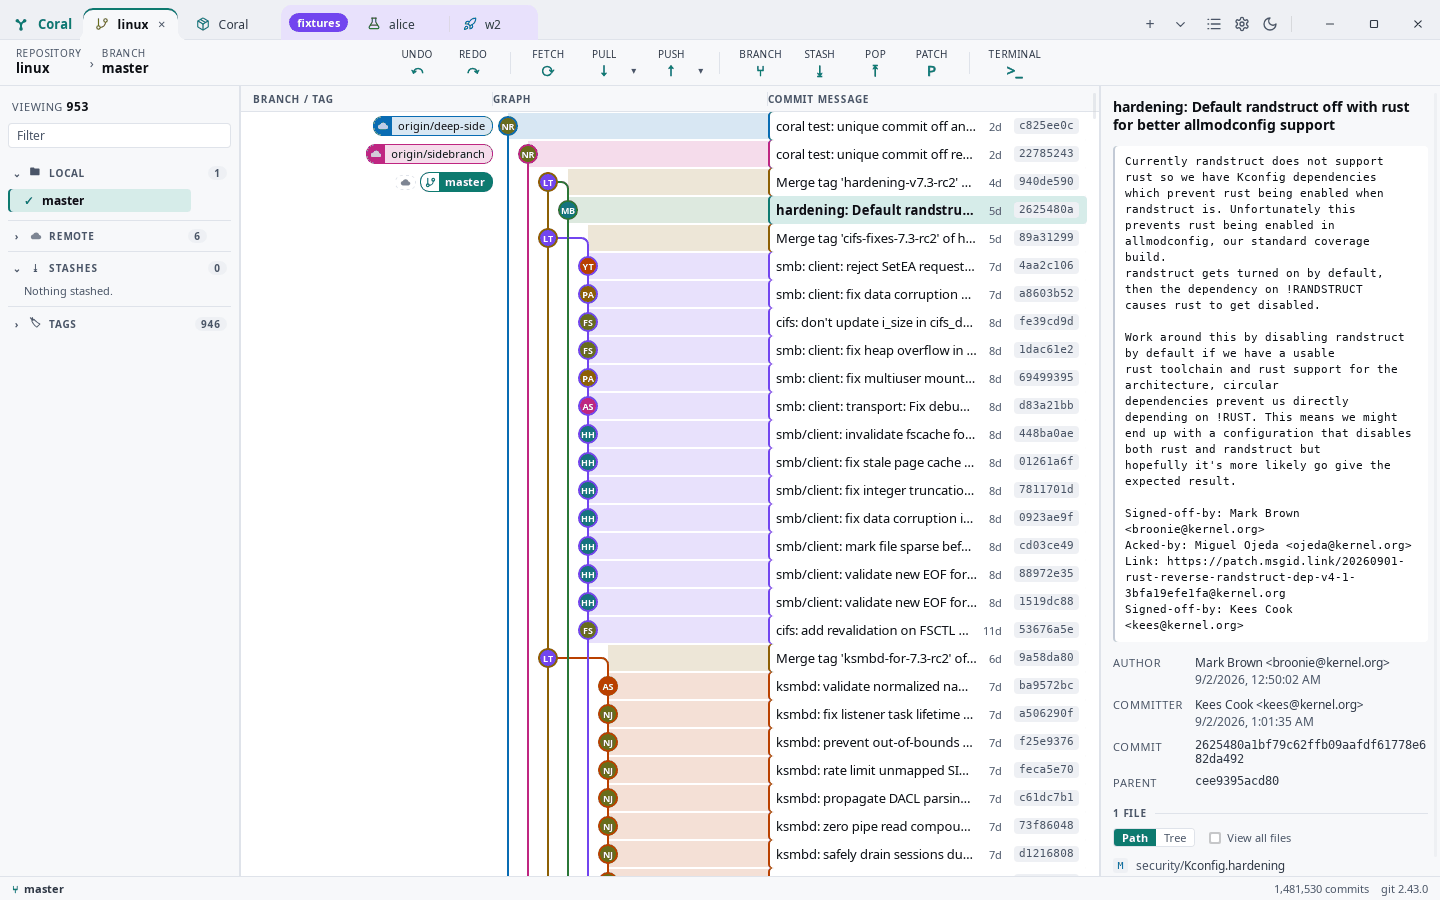
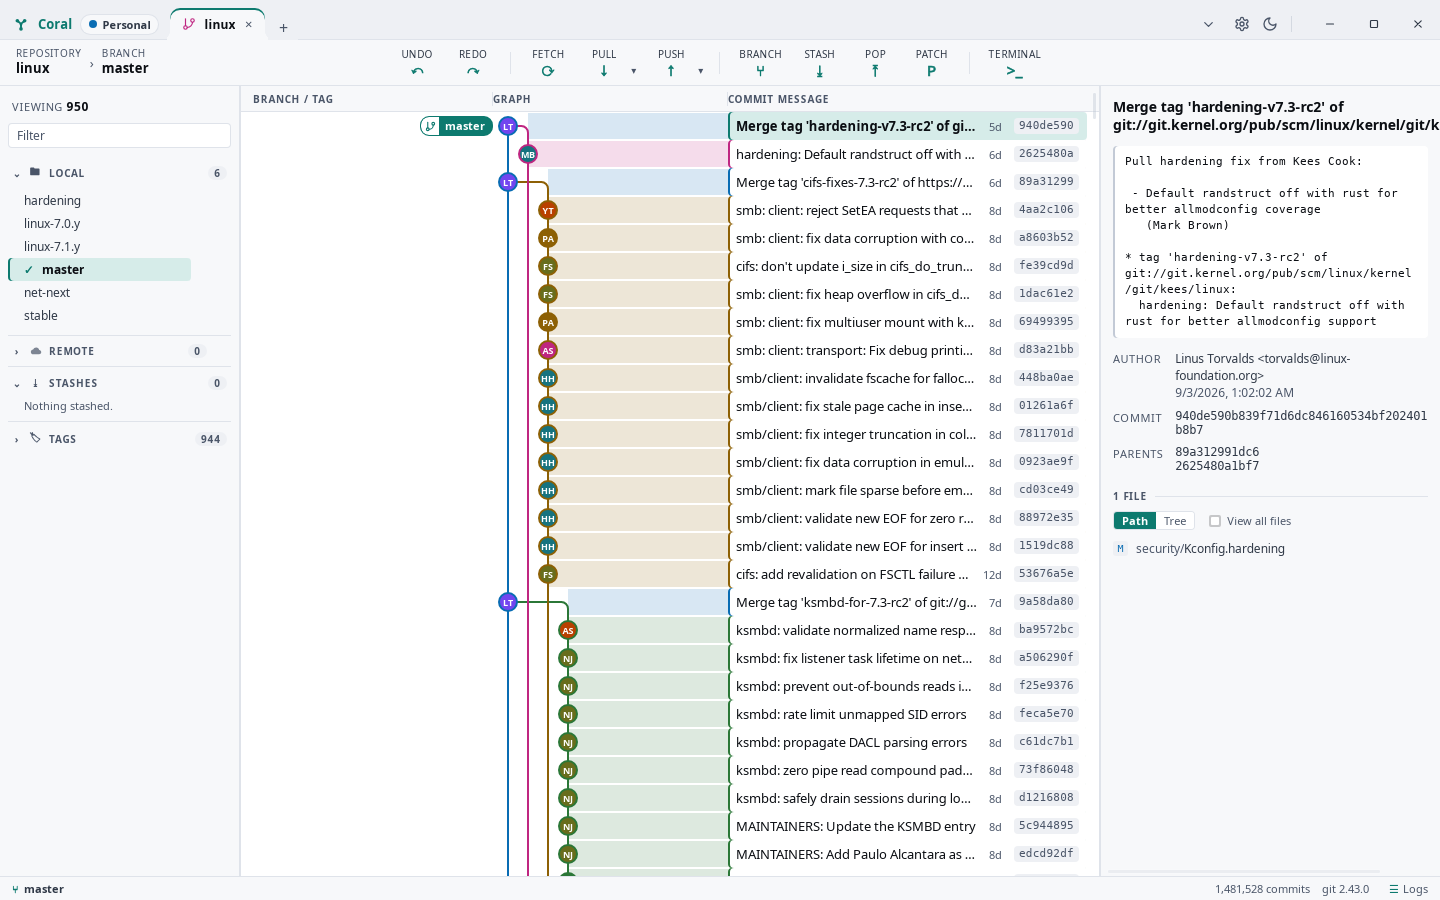
docs: retake every screenshot on the kernel, after a session of changing the window
The chrome moved this week and the pictures did not: the profile chip is new, the
new-tab button sits beside the last tab rather than at the far end, the activity log
is reached from the corner of the status bar, and the settings page names the
repository it is describing. Ten shots, all from the 1,481,528-commit kernel at the
same 1440 by 900 the old ones used.

Everything in them is real. The blame is Linus Torvalds, Joe Perches and Kees Cook on
MAINTAINERS with ages going back twenty-one years; the palette is filtering 944 real
tags; the conflict is a genuine Makefile collision between v7.2 and v7.3-rc1, with the
sides named after those refs. The three shots that need a working tree use commits made
by a fixture identity rather than the owner's, since a screenshot in a README is
published.

The figures in the captions were read off the shots rather than carried over: 944 tags
rather than 946, and soloing takes the walk from 1,481,528 commits to 1,461,722, which
says more than a ref count did.

Taken against a `--shared` clone, never the benchmark clone itself. That one was
recorded before and compared after, and is byte-identical.

Claude-Session: https://claude.ai/code/session_012b2kJUf38QPjZx7kbSN8d5

diff --git a/README.md b/README.md
@@ -16,7 +16,7 @@ run against a real clone.
 
 ## What it looks like
 
-Every screenshot below is the Linux kernel unless it says otherwise: 1,481,530 commits, 946
+Every screenshot below is the Linux kernel unless it says otherwise: 1,481,528 commits, 944
 tags, six branches.
 
 ![The graph on the Linux kernel](docs/screenshots/01-graph.png)
@@ -29,7 +29,7 @@ worth of DOM. The panel on the right is the commit under the cursor.*
 | [![Side by side diff](docs/screenshots/02-diff.png)](docs/screenshots/02-diff.png) | [![Blame](docs/screenshots/03-blame.png)](docs/screenshots/03-blame.png) |
 | **Diffs** read inline or side by side, with word-level highlighting, and step change by change in either layout. | **Blame** attributes every line to the commit that last changed it, with the age beside it. |
 | [![Staging and committing](docs/screenshots/04-staging.png)](docs/screenshots/04-staging.png) | [![The conflict tool](docs/screenshots/05-conflicts.png)](docs/screenshots/05-conflicts.png) |
-| **Staging** by file, by hunk or by line, as a tree or a flat list. This is Coral's own repository, staging this release. | **Conflicts** in three panes built from the index stages, with the sides named after the refs involved rather than "ours" and "theirs". |
+| **Staging** by file, by hunk or by line, as a tree or a flat list. | **Conflicts** in three panes built from the index stages, with the sides named after the refs involved rather than "ours" and "theirs". |
 | [![Interactive rebase](docs/screenshots/06-rebase.png)](docs/screenshots/06-rebase.png) | [![The command palette](docs/screenshots/07-palette.png)](docs/screenshots/07-palette.png) |
 | **Interactive rebase** with a picker for reword, squash, fixup, edit, drop and reorder, before anything runs. | **The command palette** on `Ctrl+P`, with every action and every tag in the repository. |
 | [![The dark theme](docs/screenshots/08-dark.png)](docs/screenshots/08-dark.png) | [![The embedded terminal](docs/screenshots/09-terminal.png)](docs/screenshots/09-terminal.png) |
@@ -37,9 +37,9 @@ worth of DOM. The panel on the right is the commit under the cursor.*
 
 ![A branch soloed on the kernel](docs/screenshots/10-solo.png)
 
-*Solo. The same repository with one branch walked and the other 952 refs left out — the banner
-names it and gives it back. Hiding does the reverse, and either choice is remembered for that
-repository.*
+*Solo. The same repository with one branch walked and every other ref left out, taking the
+walk from 1,481,528 commits to 1,461,722. The banner names the branch and gives it back.
+Hiding does the reverse, and either choice is remembered for that repository.*
 
 ## What it does
 
